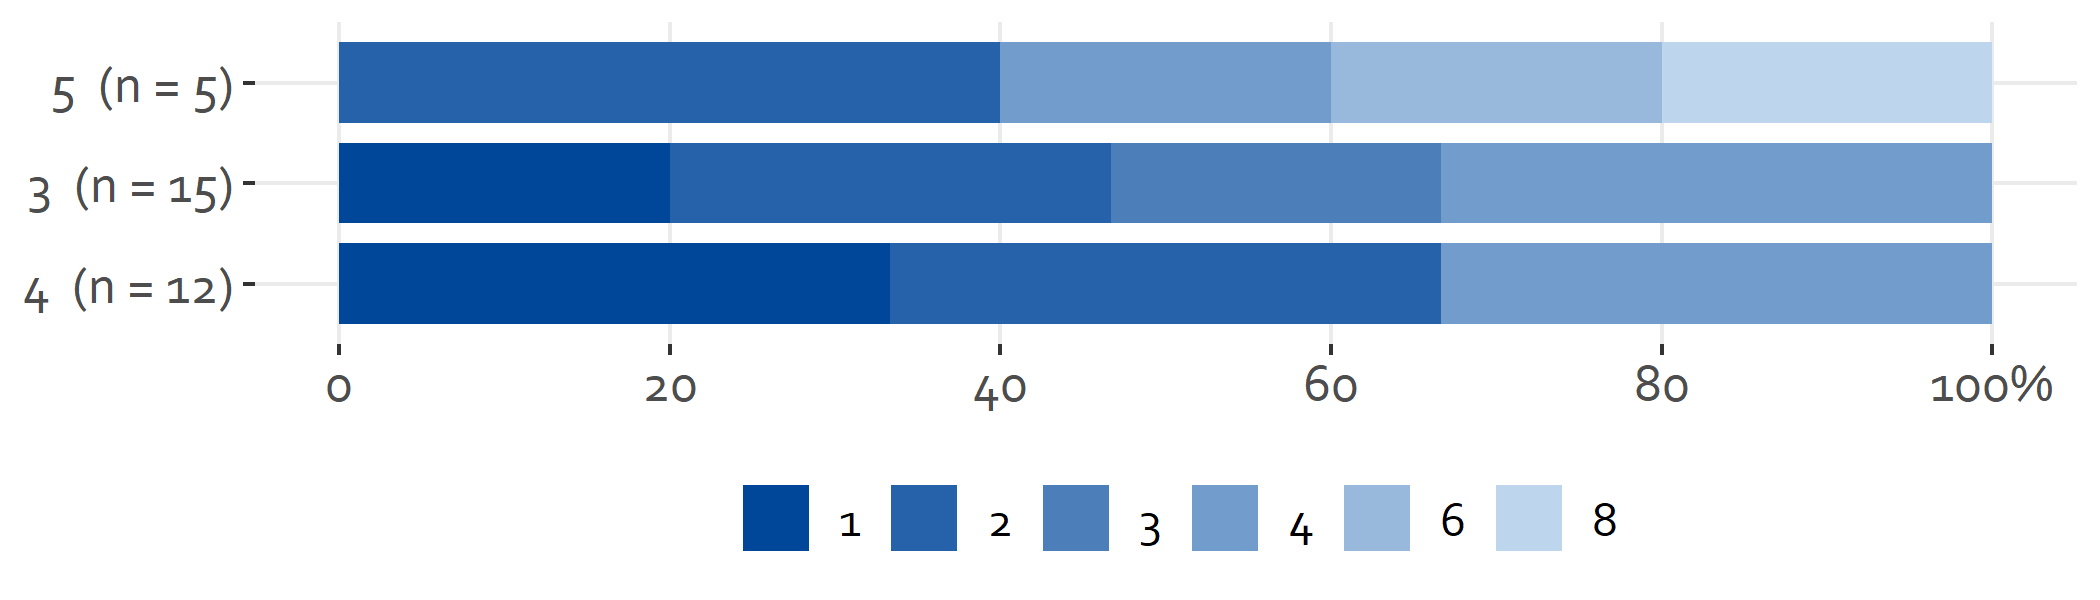
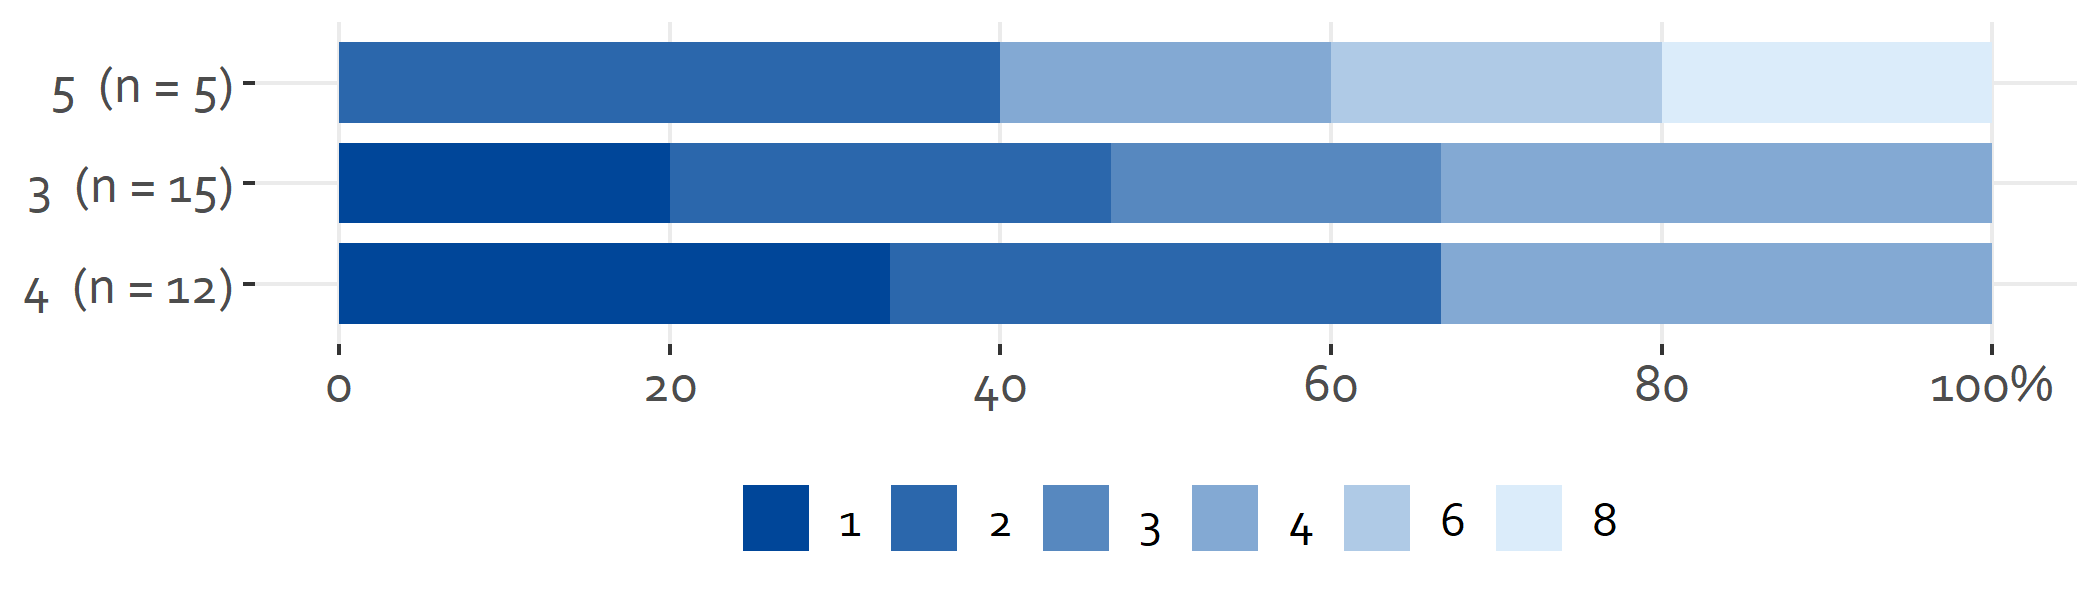
kleur_pal toevoegen

Changed region(s): [[0.7738, 0.06, 0.9595, 0.21], [0.7119, 0.81, 0.7429, 0.93]]

diff --git a/README.md b/README.md
@@ -15,34 +15,6 @@ De package kan als volgt worden geïnstalleerd van
 ``` r
 # install.packages("devtools")
 devtools::install_github("brilstl/ggtheme.ois")
-#> WARNING: Rtools is required to build R packages, but is not currently installed.
-#> 
-#> Please download and install Rtools 4.0 from https://cran.r-project.org/bin/windows/Rtools/.
-#> Downloading GitHub repo brilstl/ggtheme.ois@HEAD
-#> tibble (3.1.3 -> 3.1.4) [CRAN]
-#> Installing 1 packages: tibble
-#> package 'tibble' successfully unpacked and MD5 sums checked
-#> Warning: cannot remove prior installation of package 'tibble'
-#> Warning in file.copy(savedcopy, lib, recursive = TRUE): problem copying C:
-#> \Users\tbrils\Documents\R\R-4.1.0\library\00LOCK\tibble\libs\x64\tibble.dll
-#> to C:\Users\tbrils\Documents\R\R-4.1.0\library\tibble\libs\x64\tibble.dll:
-#> Permission denied
-#> Warning: restored 'tibble'
-#> 
-#> The downloaded binary packages are in
-#>  C:\Users\tbrils\AppData\Local\Temp\RtmpeyyuKF\downloaded_packages
-#> WARNING: Rtools is required to build R packages, but is not currently installed.
-#> 
-#> Please download and install Rtools 4.0 from https://cran.r-project.org/bin/windows/Rtools/.
-#>          checking for file 'C:\Users\tbrils\AppData\Local\Temp\RtmpeyyuKF\remotes1df46f6f1228\brilstl-ggtheme.ois-66cf481/DESCRIPTION' ...  v  checking for file 'C:\Users\tbrils\AppData\Local\Temp\RtmpeyyuKF\remotes1df46f6f1228\brilstl-ggtheme.ois-66cf481/DESCRIPTION'
-#>       -  preparing 'ggtheme.ois':
-#>    checking DESCRIPTION meta-information ...     checking DESCRIPTION meta-information ...   v  checking DESCRIPTION meta-information
-#>       -  checking for LF line-endings in source and make files and shell scripts
-#>       -  checking for empty or unneeded directories
-#>      Omitted 'LazyData' from DESCRIPTION
-#>       -  building 'ggtheme.ois_0.5.tar.gz'
-#>      
-#> 
 ```
 
 ## Example
